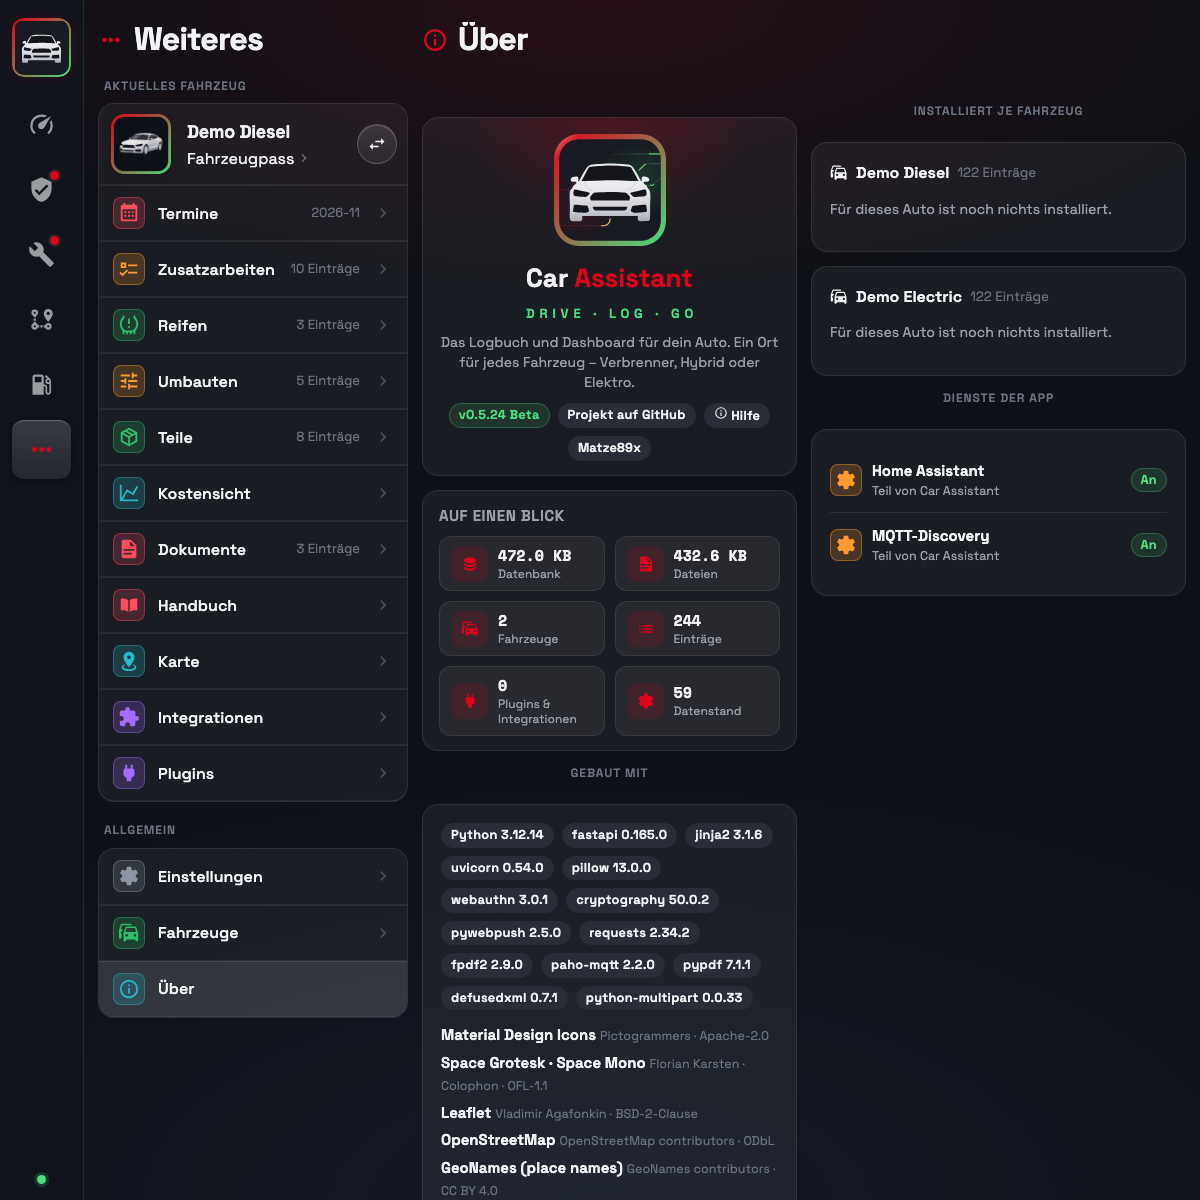
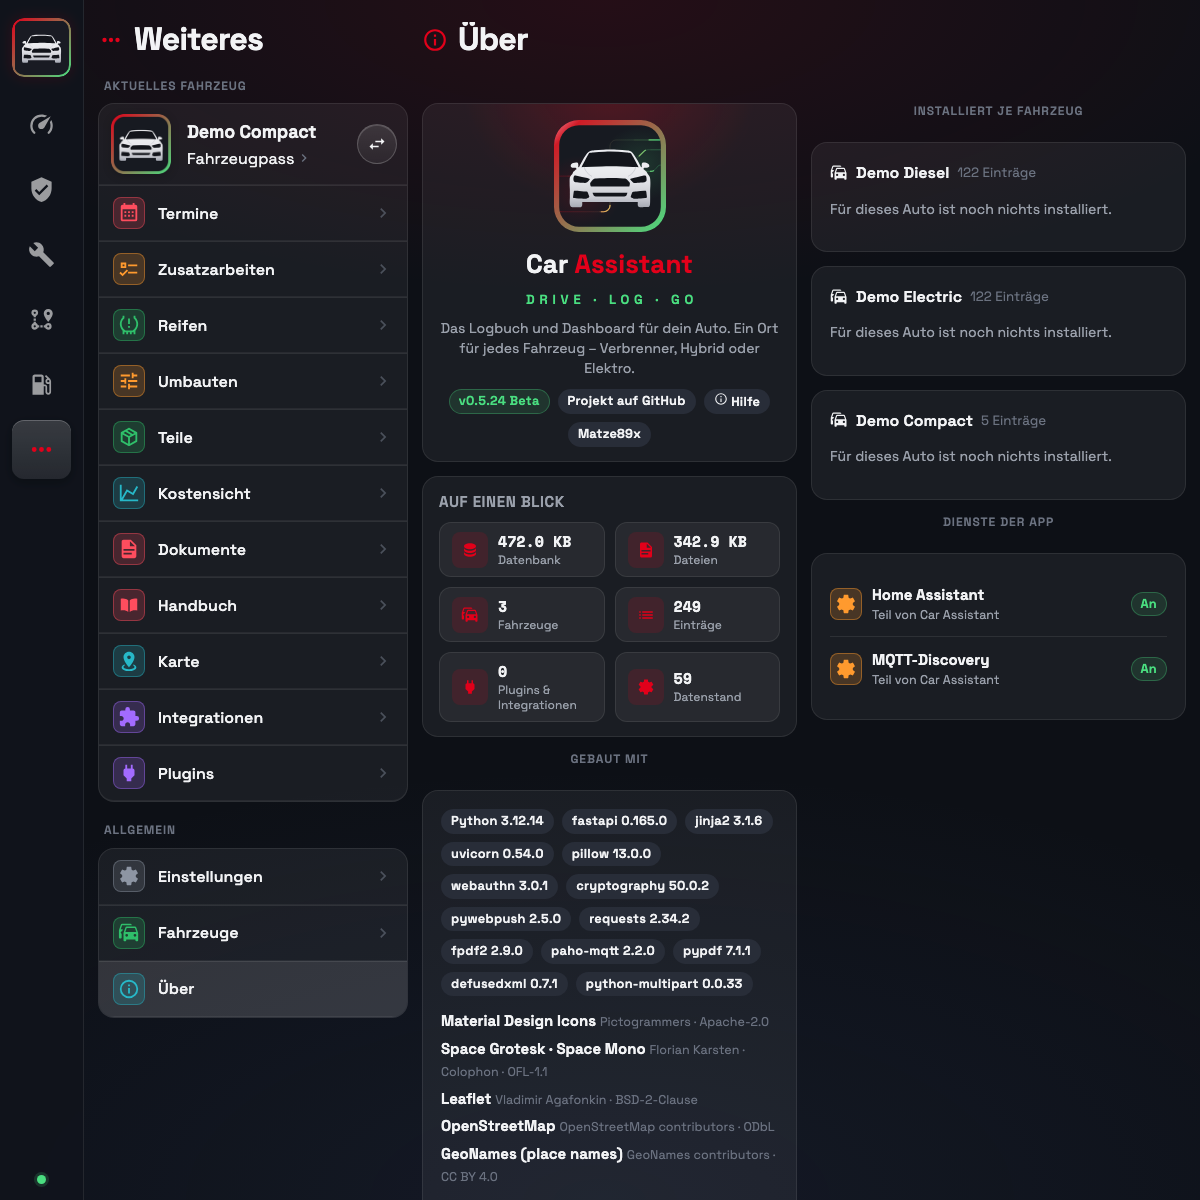
Dev 0.5.25.4: the About page starts level with the More list; every page is measured in a browser
- The first card of the About page started 13.6 px lower than the first card of the More list (a card margin inside a grid column does not
  collapse); one rule takes it off, for both columns, with and without a message above.
- tools/check_alignment.py opens every page of the More list in a headless Chrome and measures the first block, the title line and the gap to the
  list at several widths and for a car with much data and one with little; tests/test_page_alignment.py runs it where Chrome is installed
  (it fails without the fix). tools/cdp.py waits for the page and finds Chrome or Chromium.
- Screenshots: the About pictures are renewed; make_screenshots forgets the first language's address before it seeds the second.
- Docs: the design handbook states the rule.

diff --git a/carassistant/app/carassistant/static/pc-core.css b/carassistant/app/carassistant/static/pc-core.css
@@ -270,6 +270,10 @@ dialog.vsw::backdrop { background: rgba(5,7,11,.84); -webkit-backdrop-filter: bl
   /* ... also when the (empty) notice slot sits between the header and the page: it still counts as a neighbour */
   .vpage.with-more > main > .page-head + .notice-slot + *, .vpage.with-more > main > .page-head + .notice-slot + .vd > :first-child, .vpage.with-more > main > .page-head + .notice-slot + .cards > .card { margin-top: 0; }
 
+  /* ... and when the page is built in columns (the About page: a grid of two columns inside a wrapper), the first card of EACH column starts on that line too:
+     a margin inside a grid cell does not collapse away, so it is taken off here (tools/check_alignment.py measures every page; a test guards it) */
+  .vpage.with-more > main > .page-head + .about-wrap .ab-col > :first-child, .vpage.with-more > main > .page-head + .notice-slot + .about-wrap .ab-col > :first-child { margin-top: 0; }
+
   /* ... and the "More" title on the left sits on exactly the same line */
   .more-pane .mgroup-wrap { margin-top: 0; margin-bottom: var(--sp-block); }
   .more-pane .mi.sel, .more-pane .mi.sel:hover { background: rgba(var(--fg-rgb),.10); }

diff --git a/tools/check_alignment.py b/tools/check_alignment.py
@@ -1,0 +1,123 @@
+"""Is the first block of every page level with the first card of the More list?
+
+Wide screens show the More list on the left and the page on the right (docs/design.md, "Page pattern"). The first card of the page has to start on
+exactly the same line as the first card of the list - on every page, at every width, also with a message above, an empty page or a car with little
+data. A page that starts a few pixels lower looks broken, and it is easy to do by accident (a card with its own top margin inside a grid cell).
+
+This opens every page of the More list in a headless Chrome (tools/cdp.py) on a temporary demo installation, measures both lines and says which
+page is off. ``tests/test_page_alignment.py`` runs it when Chrome is installed.
+
+  python tools/check_alignment.py [--widths 1000,1200,1440]
+"""
+
+from __future__ import annotations
+
+import argparse
+import json
+import os
+import subprocess
+import sys
+import tempfile
+from pathlib import Path
+
+ROOT = Path(__file__).resolve().parents[1]
+sys.path.insert(0, str(ROOT / "tools"))
+
+TOLERANCE = 1.0  # pixels
+
+# the first block that is really drawn (a notice tile, a tab bar, a card ...) against the first card of the More list
+MEASURE = r"""
+(function () {
+  var list = document.querySelector('.more-pane .mgroup');
+  if (!list) { return JSON.stringify({err: 'no More list'}); }
+  var left = list.getBoundingClientRect().top + scrollY;
+  var main = document.querySelector('.vpage > main') || document.querySelector('main');
+  function boxed(e) {
+    var s = getComputedStyle(e);
+    return s.backgroundColor !== 'rgba(0, 0, 0, 0)' || parseFloat(s.borderTopWidth) > 0 || s.backgroundImage !== 'none';
+  }
+  var kids = Array.prototype.filter.call(main.children, function (e) {
+    return e.getBoundingClientRect().height > 0 && !e.classList.contains('page-head') && e.tagName !== 'TEMPLATE' && getComputedStyle(e).position !== 'fixed';
+  });
+  if (!kids.length) { return JSON.stringify({err: 'nothing under the header'}); }
+  var c = kids[0], depth = 0;
+  while (c.firstElementChild && depth < 4 && !boxed(c)) { c = c.firstElementChild; depth++; }  /* down to the first thing with a box: a wrapper does not count */
+  var pane = document.querySelector('.more-pane'), head = main.querySelector(':scope > .page-head'), paneHead = pane.querySelector('.page-head');
+  return JSON.stringify({
+    left: left, top: c.getBoundingClientRect().top + scrollY, what: c.tagName + '.' + String(c.className || '').split(' ').slice(0, 3).join('.'),
+    gap: main.getBoundingClientRect().left - pane.getBoundingClientRect().right,  /* the space between the list and the page */
+    headDiff: head && paneHead ? head.getBoundingClientRect().top - paneHead.getBoundingClientRect().top : 0  /* "More" and the title of the page on one line */
+  });
+})()
+"""
+
+
+def _seed(data: Path, lang: str = "en") -> None:
+    code = "import sys; from pathlib import Path; sys.path.insert(0, %r); import make_screenshots as ms; ms.seed(Path(%r), %r)" % (str(ROOT / "tools"), str(data), lang)
+    env = {**os.environ, "PYTHONPATH": str(ROOT / "carassistant" / "app") + os.pathsep + str(ROOT / "tools")}
+    subprocess.run([sys.executable, "-c", code], check=True, env=env, capture_output=True, timeout=120)  # noqa: S603
+
+
+def run(widths: tuple[int, ...] = (1000, 1200, 1440)) -> list[str]:
+    """The pages that start off the line of the More list: ``["/about at 1200 px: 13.6 px lower (section.card.about-hero)", ...]``."""
+    import make_screenshots as ms
+    from cdp import Browser
+
+    problems: list[str] = []
+    with tempfile.TemporaryDirectory() as tmp:
+        data = Path(tmp)
+        _seed(data)
+        port = ms.free_port()
+        env = {**os.environ, "CARASSISTANT_DATA": str(data), "CARASSISTANT_DEV": "1", "CARASSISTANT_PORT": str(port)}
+        env["PYTHONPATH"] = str(ROOT / "carassistant" / "app")
+        server = subprocess.Popen([sys.executable, "-m", "carassistant"], env=env, stdout=subprocess.DEVNULL, stderr=subprocess.DEVNULL)  # noqa: S603
+        try:
+            base = f"http://127.0.0.1:{port}"
+            ms.wait_for(base + "/healthz")
+            with Browser() as b:
+                pages: list[str] = []
+                for car in (ms.DIESEL, ms.COMPACT):  # a car with much data and one with little
+                    b.open(f"{base}/v/{car}/more", 1200, 900, 1, settle=2.0)
+                    pages += json.loads(b.run("JSON.stringify(Array.prototype.map.call(document.querySelectorAll('.more-pane a.mi[href]'), function (a) { return a.getAttribute('href'); }))"))
+                pages += [
+                    "/about",
+                    "/vehicles",
+                    "/settings/user",
+                    "/settings/system",
+                    f"/settings/car?car={ms.DIESEL}",
+                    f"/v/{ms.DIESEL}/edit",
+                    f"/v/{ms.DIESEL}/docs?m=err.required",  # a message above the page
+                    f"/v/{ms.DIESEL}/plugins/connections",
+                    f"/v/{ms.DIESEL}/plugins/add",
+                    f"/v/{ms.DIESEL}/plugins/sources",
+                    f"/v/{ms.DIESEL}/integrations/add",
+                    f"/v/{ms.DIESEL}/integrations/sources",
+                ]
+                for width in widths:
+                    gaps: dict[str, float] = {}
+                    for page in dict.fromkeys(pages):
+                        b.open(base + page, width, 900, 1, settle=0.35)
+                        got = json.loads(b.run(MEASURE))
+                        if "err" in got:
+                            problems.append(f"{page} at {width} px: {got['err']}")
+                        else:
+                            diff = got["top"] - got["left"]
+                            if abs(diff) > TOLERANCE:
+                                problems.append(f"{page} at {width} px: {abs(diff):.1f} px {'lower' if diff > 0 else 'higher'} than the More list ({got['what']})")
+                            if abs(got["headDiff"]) > TOLERANCE:
+                                problems.append(f"{page} at {width} px: the title is {abs(got['headDiff']):.1f} px off the line of the word More")
+                            gaps[page] = round(got["gap"], 1)
+                    common = max(set(gaps.values()), key=list(gaps.values()).count) if gaps else 0
+                    problems += [f"{p} at {width} px: {g} px between the list and the page (the others: {common} px)" for p, g in gaps.items() if abs(g - common) > TOLERANCE]
+        finally:
+            server.terminate()
+            server.wait(timeout=10)
+    return problems
+
+
+if __name__ == "__main__":
+    ap = argparse.ArgumentParser()
+    ap.add_argument("--widths", default="1000,1200,1440")
+    found = run(tuple(int(w) for w in ap.parse_args().widths.split(",")))
+    print("\n".join(found) if found else "every page starts level with the More list")
+    sys.exit(1 if found else 0)

diff --git a/tools/cdp.py b/tools/cdp.py
@@ -17,6 +17,7 @@ import base64
 import json
 import os
 import socket
+import shutil
 import struct
 import subprocess
 import tempfile
@@ -24,7 +25,15 @@ import time
 import urllib.request
 from pathlib import Path
 
-CHROME = os.environ.get("CHROME") or "/Applications/Google Chrome.app/Contents/MacOS/Google Chrome"
+
+def find_chrome() -> str | None:
+    """Google Chrome or Chromium: ``CHROME`` (a path), the Mac application, or a program of that name on the path; None when there is none."""
+    candidates = [os.environ.get("CHROME") or "", "/Applications/Google Chrome.app/Contents/MacOS/Google Chrome"]
+    candidates += [shutil.which(name) or "" for name in ("google-chrome", "google-chrome-stable", "chromium", "chromium-browser", "chrome")]
+    return next((c for c in candidates if c and Path(c).exists()), None)
+
+
+CHROME = find_chrome() or "chrome"
 
 
 class _Socket:
@@ -100,6 +109,7 @@ class Browser:
                 "--disable-gpu",
                 "--hide-scrollbars",
                 "--no-first-run",
+                *(["--no-sandbox"] if hasattr(os, "geteuid") and os.geteuid() == 0 else []),  # a root user (a container) cannot use the sandbox
                 f"--remote-debugging-port={self.port}",
                 f"--user-data-dir={self.tmp.name}",
                 "about:blank",
@@ -148,7 +158,11 @@ class Browser:
     def open(self, url: str, width: int, height: int, scale: int = 1, settle: float = 2.5) -> None:
         self.call("Emulation.setDeviceMetricsOverride", width=width, height=height, deviceScaleFactor=scale, mobile=False)
         self.call("Page.navigate", url=url)
-        time.sleep(settle)  # the page, its scripts and the first animations
+        time.sleep(0.2)  # the old page is gone
+        end = time.time() + 20
+        while time.time() < end and self.run("document.readyState") != "complete":
+            time.sleep(0.1)
+        time.sleep(settle)  # the scripts and the first animations
 
     def run(self, js: str):
         """Run a script in the page (a promise is awaited); the value it returns comes back."""

diff --git a/tests/test_page_alignment.py b/tests/test_page_alignment.py
@@ -1,0 +1,22 @@
+"""The first block of every page starts level with the first card of the More list (and the title with the word More, the same gap everywhere).
+
+It needs a real browser: tools/check_alignment.py opens every page of the More list in a headless Chrome on a temporary demo installation. The test
+is skipped where no Chrome / Chromium is installed (``CHROME`` can name one)."""
+
+import sys
+from pathlib import Path
+
+import pytest
+
+sys.path.insert(0, str(Path(__file__).resolve().parents[1] / "tools"))
+
+
+def test_every_page_starts_level_with_the_more_list():
+    from cdp import find_chrome
+
+    if find_chrome() is None:
+        pytest.skip("no Chrome / Chromium installed")
+    import check_alignment
+
+    problems = check_alignment.run(widths=(1200,))
+    assert not problems, "\n".join(problems)

diff --git a/tools/make_screenshots.py b/tools/make_screenshots.py
@@ -101,6 +101,8 @@ def seed(data: Path, lang: str) -> None:
 
     from carassistant import accounts, config, db, mcp, slugs
 
+    config.forget_external()  # a second language in the same process must not inherit the first one's address (the password rules are strict with one)
+    config.forget_settings()
     db.migrate()
     with db.tx() as conn:
         db.set_setting(conn, "setup.language", "1")

diff --git a/tools/README.md b/tools/README.md
@@ -14,3 +14,4 @@ Site colours: accent `#e2001a`, status green `#4ade80`, background `#0d1016`, te
 - `release.py` - the one place of the version and the stage (`release.json`); writes them into every file and both changelogs (`python tools/release.py` shows the state, `set` / `fix` / `feature` change it).
 - `make_screenshots.py` - makes every picture of `docs/screenshots/` again from the made-up demo cars with a headless Google Chrome (`--only dashboard,report`, `--langs en`); it runs the app itself on a temporary data folder and reads nothing of a real installation.
   The two *quick entry* pictures (`odometer-photo`, `fuel-scan`) need a tap and a photo first: `cdp.py` (a small DevTools client, standard library only) drives the same Chrome, `demo_photos.py` draws the made-up receipt and instrument cluster that are read by the real text recognition (Tesseract must be installed).
+- `check_alignment.py` - opens every page of the *More* list in a headless Chrome on a temporary demo installation and measures that the first block of the page, its title and the gap to the list sit exactly level (`--widths 1000,1200,1440`); `tests/test_page_alignment.py` runs it where Chrome is installed.

diff --git a/docs/design.de.md b/docs/design.de.md
@@ -54,7 +54,7 @@ Jede Seite außer Home beginnt mit `page_head(icon, title)` (Makro in `_macros.h
 
 Die Führungsseiten der Ersteinrichtung (`/setup/*`) haben gar keine Navigation; die erste Seite *Fahrzeug hinzufügen* behält sie.
 
-Neben der *Weiteres*-Liste beginnt das erste Element der Seite auf derselben Linie wie die erste Karte der Liste.
+Neben der *Weiteres*-Liste beginnt das erste Element der Seite auf derselben Linie wie die erste Karte der Liste - **auf jeder Seite, bei jeder Breite, mit Meldung darüber oder leerer Seite**. Eine Karte mit eigenem oberen Rand in einer Grid-Zelle (eine Spalte der Seite „Über“) bricht das: ein Rand in einer Grid-Zelle fällt nicht zusammen. `python tools/check_alignment.py` misst jede Seite der *Weiteres*-Liste in einem Chrome ohne Fenster (erster Block, Titelzeile, Abstand zur Liste) und `tests/test_page_alignment.py` führt das aus, wo Chrome installiert ist; nach jeder Änderung an Seitenkopf, Meldung oder Spalte ausführen.
 
 ## 4. Bausteine
 

diff --git a/docs/design.md b/docs/design.md
@@ -54,7 +54,7 @@ Every page except Home starts with `page_head(icon, title)` (macro in `_macros.h
 
 First-start guide pages (`/setup/*`) have no navigation at all; the first *Add vehicle* page keeps it.
 
-Next to the *More* list the first element of the page starts on the same line as the first card of the list.
+Next to the *More* list the first element of the page starts on the same line as the first card of the list - **on every page, at every width, with a message above or an empty page**. A card with a top margin of its own inside a grid cell (a column of the About page) breaks it: a margin inside a grid cell does not collapse. `python tools/check_alignment.py` measures every page of the *More* list in a headless Chrome (first block, title line, gap to the list) and `tests/test_page_alignment.py` runs it where Chrome is installed; run it after every change of a page header, a notice or a column.
 
 ## 4. Components
 

diff --git a/docs/screenshots.de.md b/docs/screenshots.de.md
@@ -2,7 +2,7 @@
 
 [🇬🇧 English](screenshots.md) · 🇩🇪 Deutsch
 
-So sieht Car Assistant im Einsatz aus. Alle Bilder zeigen ein **Demo-Auto mit ausgedachten Daten** (ein Diesel und ein Elektroauto mit zwei Jahren Historie); kein echtes Fahrzeug, keine echten Orte. Das Demo-Auto kannst du selbst anlegen: *Fahrzeug hinzufügen → Demo-Auto*.
+So sieht Car Assistant im Einsatz aus. Alle Bilder zeigen ein **Demo-Auto mit ausgedachten Daten** (ein Diesel und ein Elektroauto mit zwei Jahren Historie und ein Kleinwagen mit wenig Daten); kein echtes Fahrzeug, keine echten Orte. Das Demo-Auto kannst du selbst anlegen: *Fahrzeug hinzufügen → Demo-Auto*.
 
 ## Dashboard
 

diff --git a/docs/screenshots.md b/docs/screenshots.md
@@ -2,7 +2,7 @@
 
 🇬🇧 English · [🇩🇪 Deutsch](screenshots.de.md)
 
-This is what Car Assistant looks like in use. All pictures show a **demo car with made-up data** (a diesel and an electric car with two years of history); no real vehicle, no real places. You can create the demo car yourself: *Add vehicle → Demo car*.
+This is what Car Assistant looks like in use. All pictures show a **demo car with made-up data** (a diesel and an electric car with two years of history, and a compact car with little data); no real vehicle, no real places. You can create the demo car yourself: *Add vehicle → Demo car*.
 
 ## Dashboard
 
